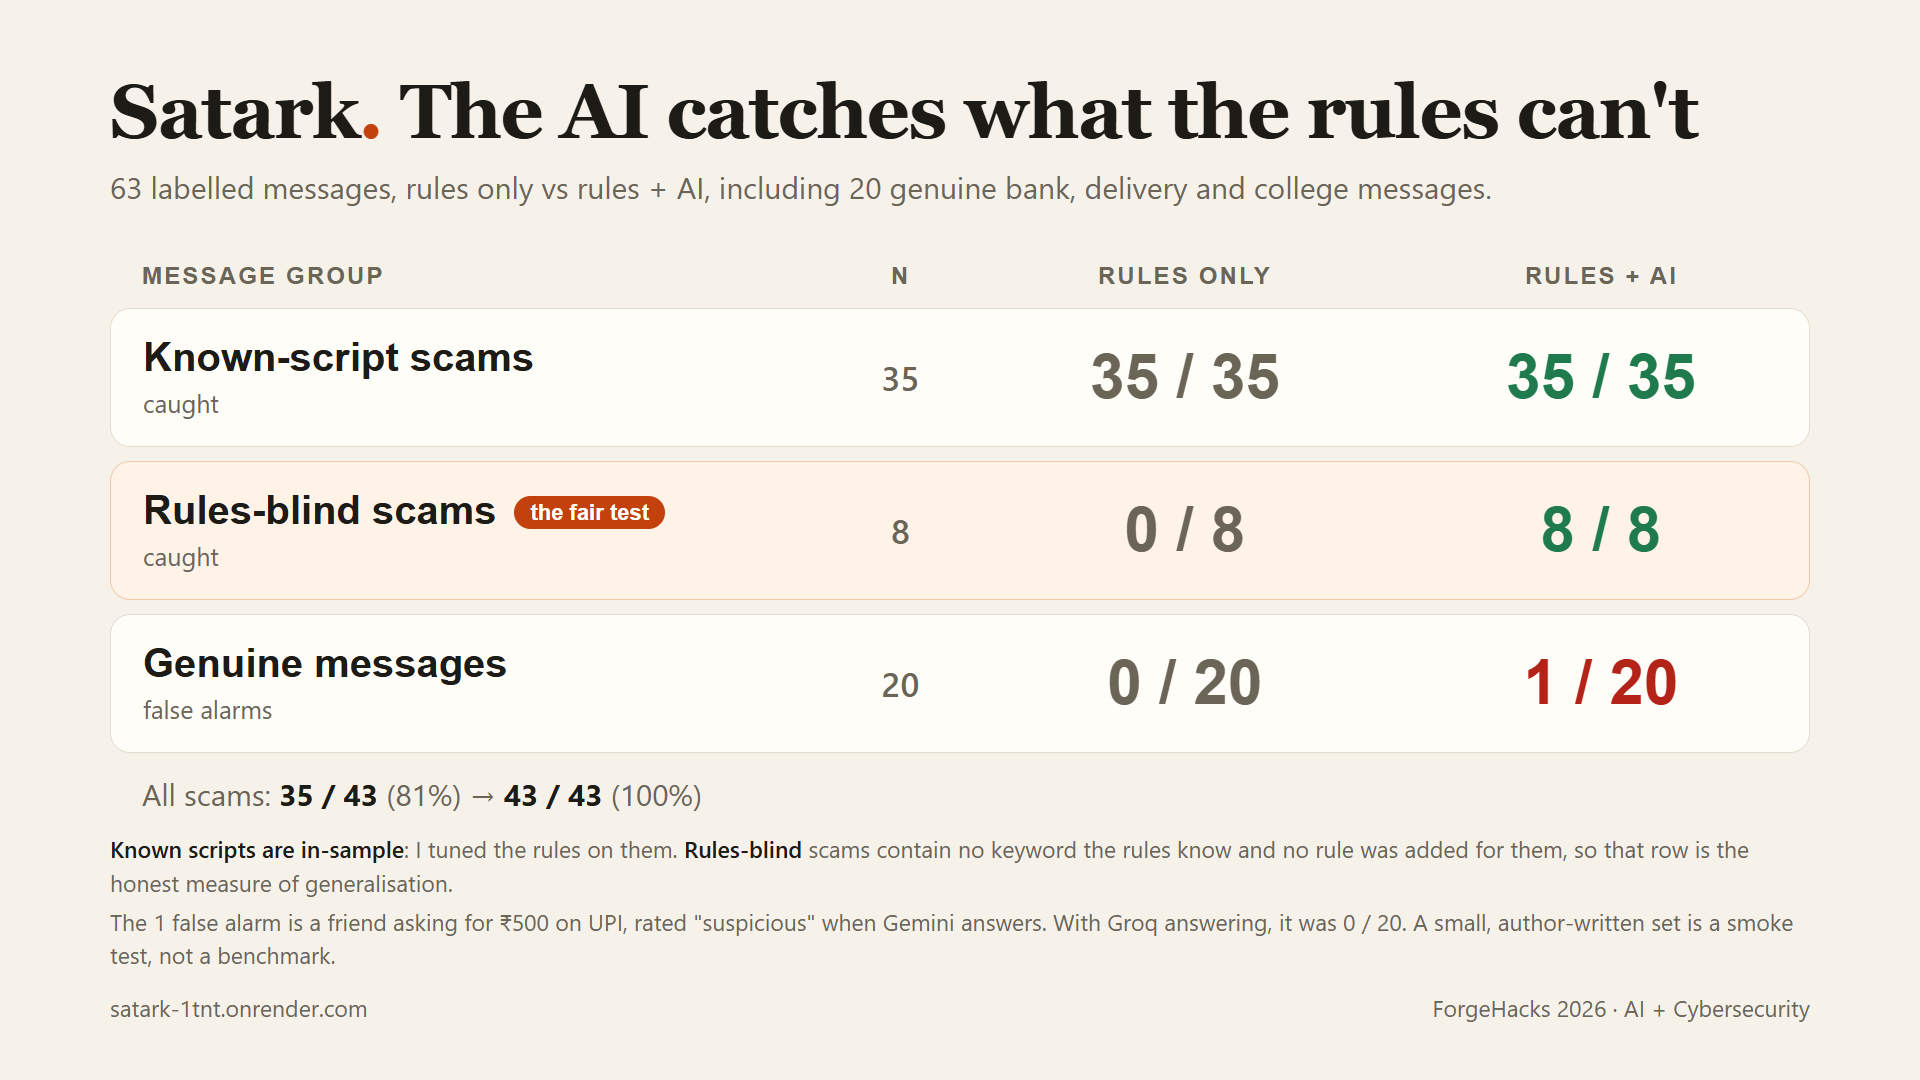
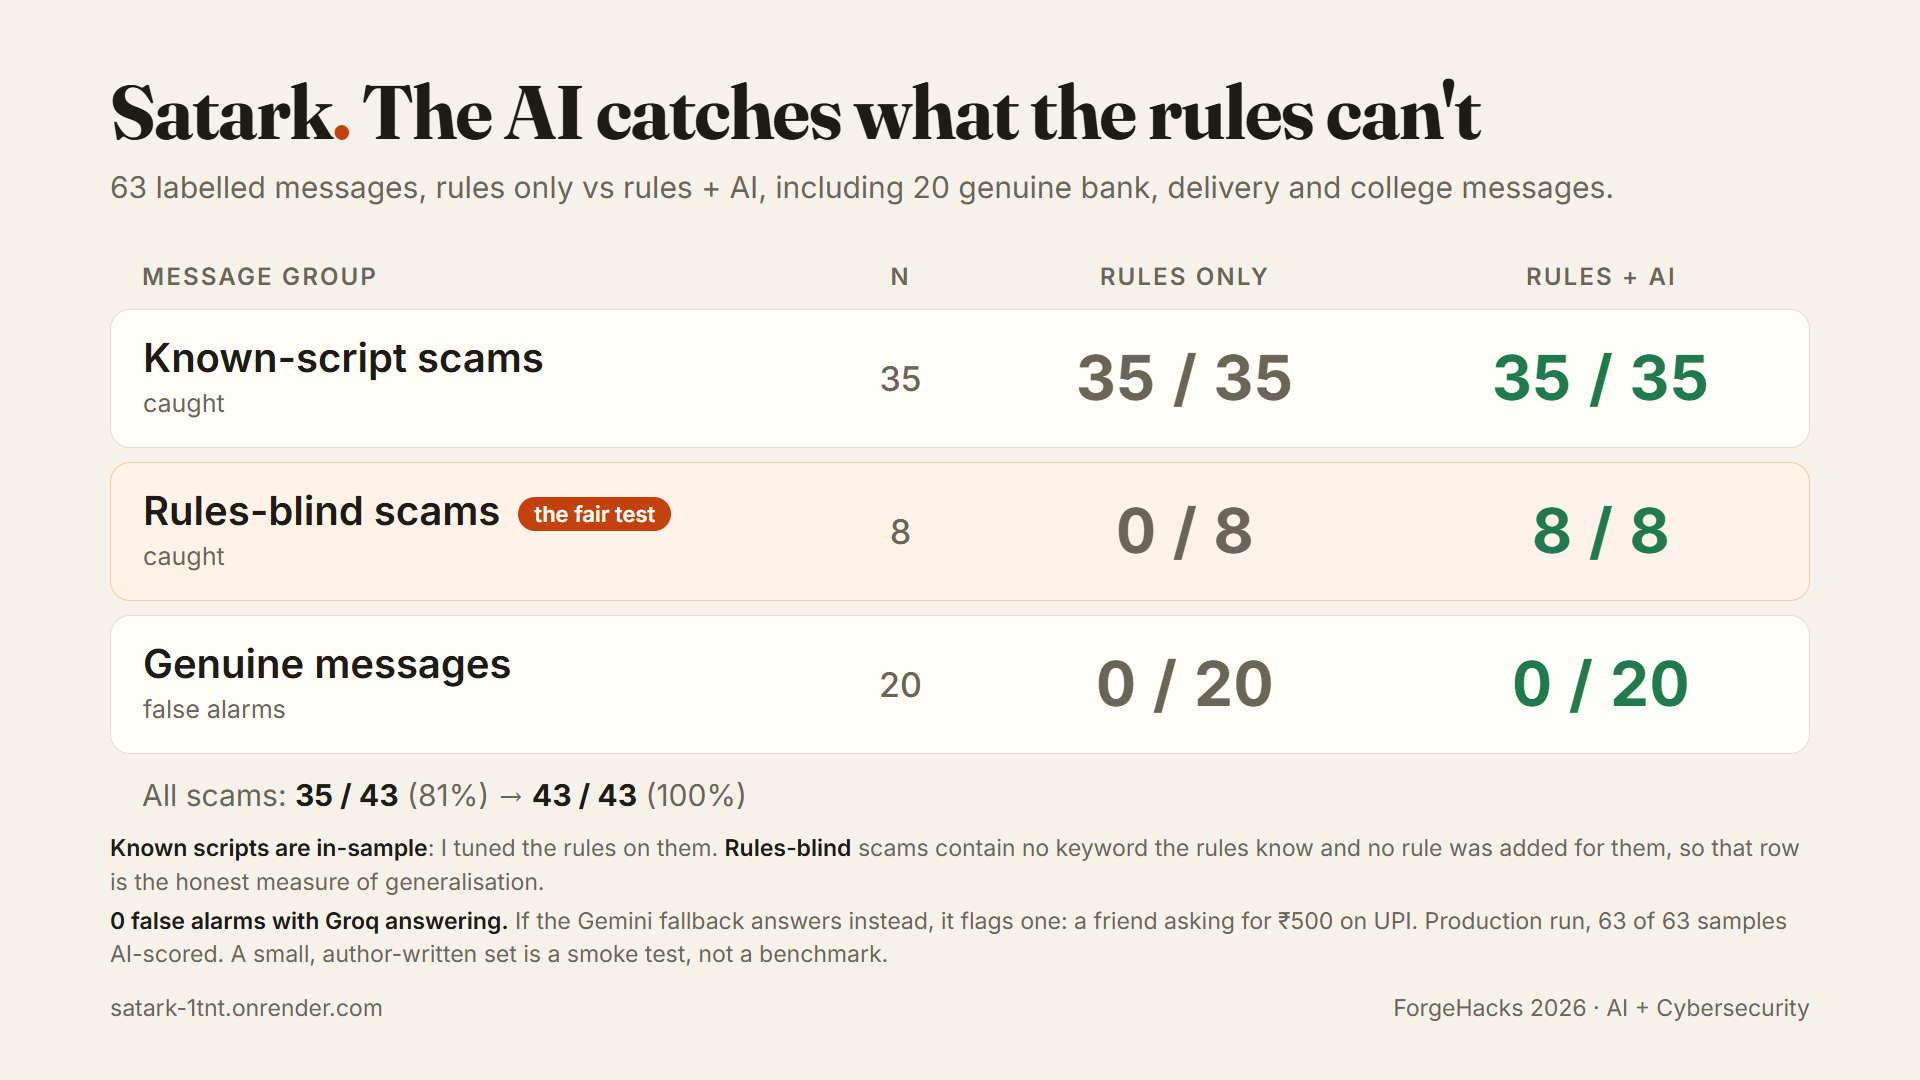
README results: production run of 2026-10-08 (63/63 AI-scored, Groq 61 / Gemini 2; 43/43, 8/8, 0/20); results.png regenerated; false-alarm notes and the rejected prompt experiment

diff --git a/scripts/make_results_image.py b/scripts/make_results_image.py
@@ -18,7 +18,7 @@ sys.path.insert(0, str(ROOT / "scripts"))
 ROWS = [
     ("Known-script scams", 35, "35 / 35", "35 / 35", "caught"),
     ("Rules-blind scams", 8, "0 / 8", "8 / 8", "caught"),
-    ("Genuine messages", 20, "0 / 20", "1 / 20", "false alarms"),
+    ("Genuine messages", 20, "0 / 20", "0 / 20", "false alarms"),
 ]
 TOTAL = ("All scams", 43, "35 / 43", "43 / 43")
 OUT = ROOT / "docs" / "results.png"
@@ -67,7 +67,7 @@ PAGE = """<!doctype html><html><head><meta charset="utf-8">
   <div class="total"><span>All scams: <b>__TOT_A__</b> (81%) &rarr; <b>__TOT_B__</b> (100%)</span></div>
   <div class="notes">
     <div><b>Known scripts are in-sample</b>: I tuned the rules on them. <b>Rules-blind</b> scams contain no keyword the rules know and no rule was added for them, so that row is the honest measure of generalisation.</div>
-    <div>The 1 false alarm is a friend asking for &#8377;500 on UPI, rated "suspicious" when Gemini answers. With Groq answering, it was 0 / 20. A small, author-written set is a smoke test, not a benchmark.</div>
+    <div><b>0 false alarms with Groq answering.</b> If the Gemini fallback answers instead, it flags one: a friend asking for &#8377;500 on UPI. Production run, 63 of 63 samples AI-scored. A small, author-written set is a smoke test, not a benchmark.</div>
   </div>
   <div class="foot"><span>satark-1tnt.onrender.com</span><span>ForgeHacks 2026 &middot; AI + Cybersecurity</span></div>
 </div></body></html>"""

diff --git a/README.md b/README.md
@@ -146,7 +146,7 @@ the rules know, and 20 genuine messages.
 | Known-script scams (caught) | 35 | 35 / 35 | 35 / 35 |
 | **Rules-blind scams (caught)** | 8 | **0 / 8** | **8 / 8** |
 | All scams (caught) | 43 | 35 / 43 (81%) | 43 / 43 (100%) |
-| Genuine messages (false alarms) | 20 | 0 / 20 | 1 / 20 |
+| Genuine messages (false alarms) | 20 | 0 / 20 | 0 / 20 |
 
 Rules give instant, explainable coverage of known scripts, and the LLM catches the new ones the rules have
 never seen. (The same table as a slide: [docs/results.png](docs/results.png).)
@@ -158,12 +158,20 @@ How to read this honestly:
 - The genuine set is made of hard negatives: bank OTP and UPI alerts, a delivery OTP that says "share with the
   agent", college fee notices, a real RBI advisory that names AnyDesk, and real `amazon.in`, `onlinesbi.sbi` and
   `.gov.in` links.
-- The one remaining false alarm is a friend asking for ₹500 on UPI, which the LLM rates "suspicious". It reads
-  like a family-emergency scam without the pressure, so I left it rather than tune the prompt to one sample.
-- LLM column (an earlier run, when Gemini `gemini-3.1-flash-lite` was the primary): 62 of 63 samples got an AI score (61 from Gemini, 1 from the Groq fallback
-  after two Gemini 503s, 1 timed out and fell back to rules). LLM output varies from run to run. A small,
+- **The false-alarm cell depends on which model answers.** With Groq answering, which is the normal case, none of the
+  20 genuine messages is flagged. If the Gemini fallback answers instead (when Groq is rate-limited or down), it flags
+  one: a friend asking for ₹500 on UPI, which it scores 51. That message reads like a family-emergency scam without the
+  pressure, so I left it rather than tune the prompt to one sample.
+- **LLM column: the production run of 2026-10-08.** Exactly the deployed setup (Groq `qwen/qwen3.8-27b` primary, Gemini
+  `gemini-3.5-flash-lite` fallback, default 12s / 7s time caps, 12s between samples): **63 of 63 samples got an AI
+  score. Groq answered 61, Gemini answered 2** (after Groq rate limits). Result: 43/43 scams, 8/8 rules-blind, 0/20
+  false alarms. The rules-blind scams land at 51–57, only just over the 50 "scam" line (the AI rates them 85–95, and
+  counts for 60% of the score), so they are caught with a thin margin. LLM output varies from run to run, and a small,
   author-written set is a smoke test, not a benchmark.
-- **With the production time caps and staged budgets** (12s per request, primary limited to 7s): 63 of 63 AI-scored,
+- **A prompt change I rejected.** I asked the AI to write its per-quote reasons and scam-type label in the chosen
+  language. In the same eval, Groq then rated a genuine electricity-bill SMS as a scam (AI score 95, final 57), a
+  false alarm the old prompt never produced, so I reverted the change. Those reasons stay in English for now.
+- **Earlier, on 2026-10-06, with the production time caps and staged budgets** (12s per request, primary limited to 7s): 63 of 63 AI-scored,
   **43/43 scams, 8/8 rules-blind, 0/20 false alarms**. Gemini exceeded its 7s budget on 37 of the 63 samples that
   day, and Groq answered each of them within the same request. Before the staged budgets, a slow Gemini used up the
   whole cap and those checks fell back to rules-only.
@@ -173,8 +181,8 @@ How to read this honestly:
   tokens a minute on Groq's free tier), not quality.
 - **And the other way round?** With Groq deliberately broken so that Gemini (`gemini-3.5-flash-lite`) answered every
   sample: 63 of 63 AI-scored with no failures, **43/43 scams, 8/8 rules-blind, 1/20 false alarms**. The one false alarm
-  is a friend asking for ₹500 on UPI, which Gemini rates as a scam (51) where Groq doesn't. It only matters when
-  Gemini answers a text check, which is when Groq is rate-limited or down.
+  is the friend-₹500 message, which Gemini rates as a scam (51) where Groq doesn't. It only matters when Gemini
+  answers a text check, which is when Groq is rate-limited or down.
 
 ### Live speed
 
@@ -346,16 +354,18 @@ Check a deployment with `pwsh scripts\smoke_test.ps1 -Base https://<your-service
   translated, and the AI writes its overall explanation in the chosen language. Names people must recognise stay
   as written: 1930, cybercrime.gov.in, Sanchar Saathi / Chakshu, OTP, UPI, PIN, KYC. Two gaps: the AI's one-line reason
   under each *quoted* phrase is still in English (its quotes must stay verbatim, and the prompt only asks for the
-  overall explanation in your language), and the AI's scam-type label is not translated. The translations were
+  overall explanation in your language; a prompt change to translate them was tried and rejected, see Results), and the AI's
+  scam-type label is not translated. The translations were
   written for this project and reviewed by me before release; they have not had an independent native-speaker
   review. `python scripts/check_translations_live.py` checks a deployment (every step and signal has Devanagari
   text, the names above survive, evidence is unchanged).
 - **Screenshots** are read by Gemini (the only vision model configured), so they need Gemini to be available.
   Their speed varies a lot (about 2.5s from a laptop, 4.5–10s from Render), and Gemini now and then returns a 503 or
   429, in which case the check says so instead of guessing.
-- **One known false alarm.** A friend asking for ₹500 on UPI gets flagged when Gemini answers (it scored 51; Groq
-  leaves it alone) because it reads like a family-emergency scam without the pressure. I left it rather than tune the prompt to one
-  sample. It only appears when Gemini answers a text check, which is when Groq is rate-limited or down.
+- **One known false alarm, when Gemini answers.** A friend asking for ₹500 on UPI gets flagged by the Gemini fallback
+  (it scored 51); Groq leaves it alone, and with Groq answering, the eval has 0 false alarms in 20. I left it rather
+  than tune the prompt to one sample. It only appears when Gemini answers a text check, which is when Groq is
+  rate-limited or down.
 - **Gemini fallback variance.** Gemini is slower and less steady than Groq, and its scores differ a little from
   Groq's. Rules still answer first and the AI can only raise a score, so a Gemini wobble can't hide a known scam.
 - **Cold start.** Render's free tier sleeps after about 15 minutes idle; the first load can take about a minute.
